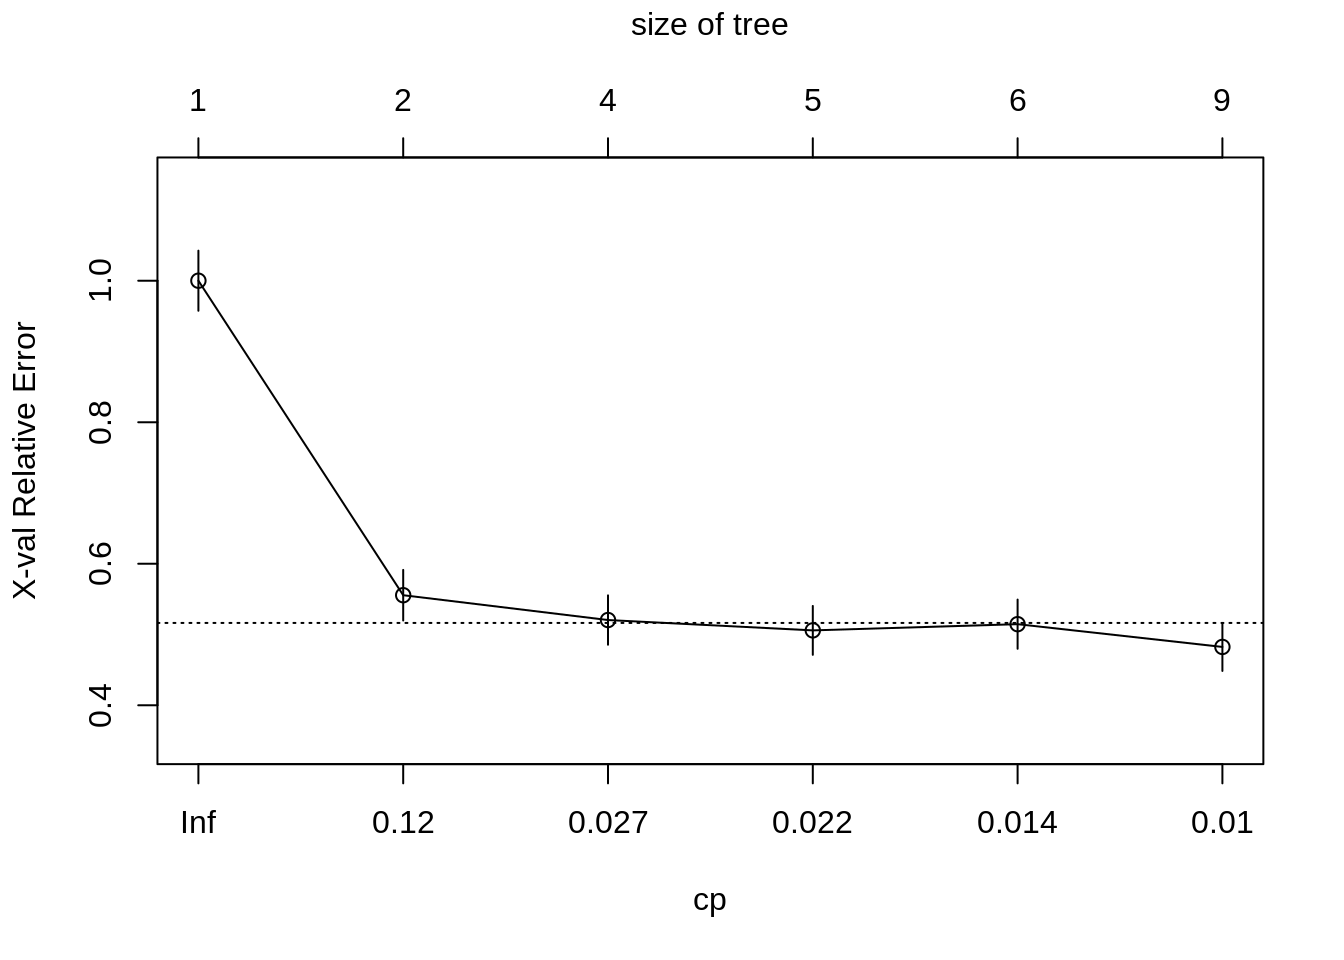
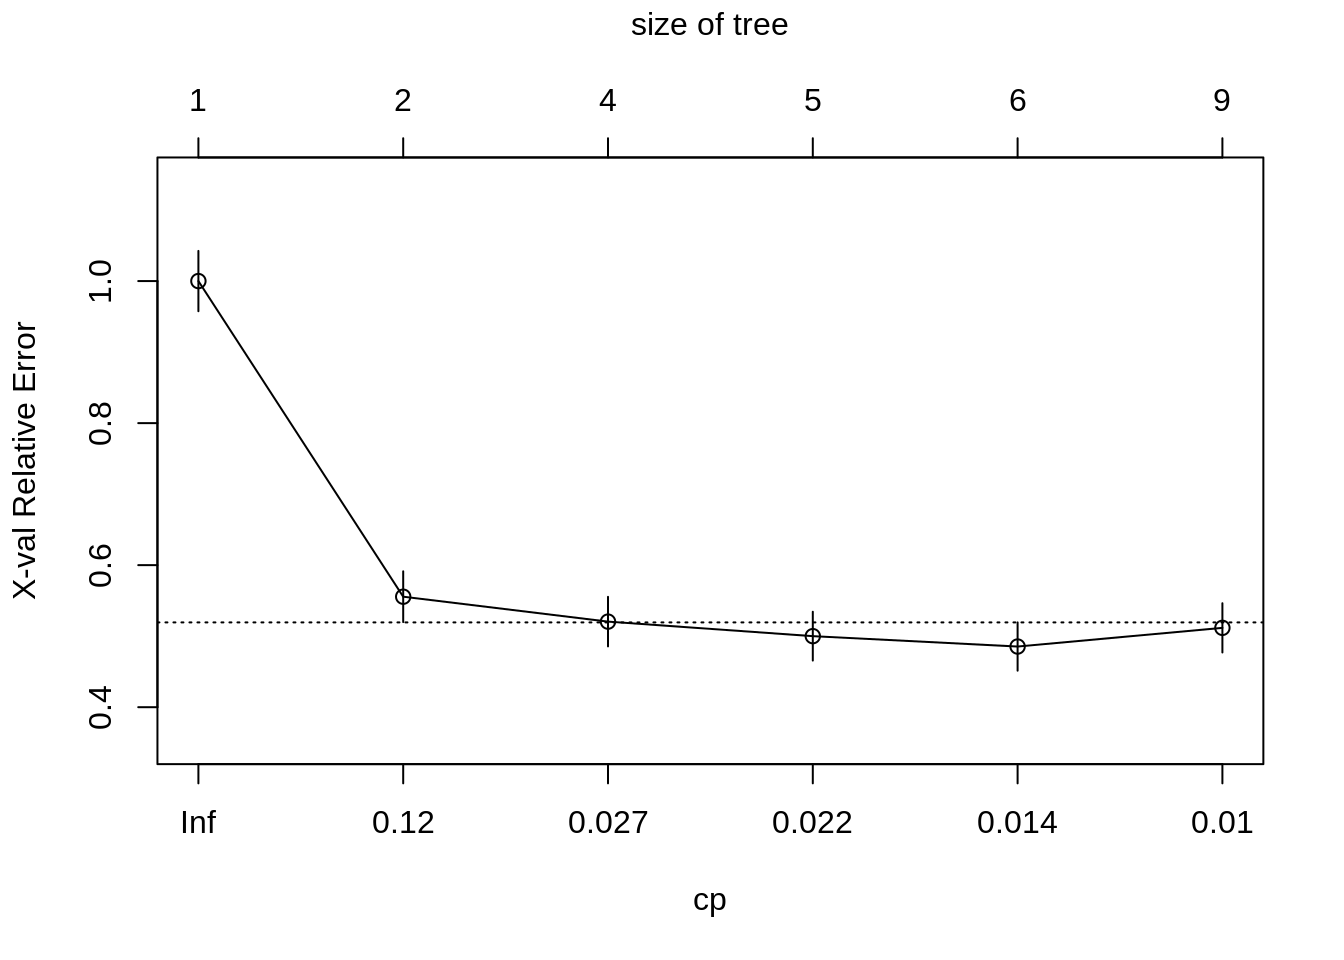
Deploy lebebr01/stat_thinking to github.com/lebebr01/stat_thinking.git:master

diff --git a/docs/classification.html b/docs/classification.html
@@ -325,9 +325,9 @@ titanic &lt;-<span class="st"> </span><span class="kw">bind_rows</span>(titanic_
 ## 1 0.444444      0   1.00000 1.00000 0.042446
 ## 2 0.030702      1   0.55556 0.55556 0.035750
 ## 3 0.023392      3   0.49415 0.52047 0.034897
-## 4 0.020468      4   0.47076 0.50585 0.034524
-## 5 0.010234      5   0.45029 0.51462 0.034749
-## 6 0.010000      8   0.41813 0.48246 0.033904</code></pre>
+## 4 0.020468      4   0.47076 0.50000 0.034372
+## 5 0.010234      5   0.45029 0.48538 0.033983
+## 6 0.010000      8   0.41813 0.51170 0.034675</code></pre>
 <div class="sourceCode"><pre class="sourceCode r"><code class="sourceCode r"><span class="kw">plotcp</span>(class_tree)</code></pre></div>
 <p><img src="05-classification_files/figure-html/unnamed-chunk-6-1.png" width="672" /></p>
 <div class="sourceCode"><pre class="sourceCode r"><code class="sourceCode r">prune_class_tree &lt;-<span class="st"> </span><span class="kw">prune</span>(class_tree, <span class="dt">cp =</span> .<span class="dv">02</span>)

diff --git a/docs/descriptive-statistics-numerically-describing-the-sample-data.html b/docs/descriptive-statistics-numerically-describing-the-sample-data.html
@@ -560,6 +560,7 @@ Y = \begin{pmatrix}10 - 24\\ 10-24\\ 20-24\\ 30-24\\ 50-24\end{pmatrix} = \begin
 <span class="st">  </span><span class="kw">df_stats</span>(<span class="op">~</span><span class="st"> </span>adm_rate, mae)</code></pre></div>
 <pre><code>##   mae_adm_rate
 ## 1    0.1692953</code></pre>
+<!-- This is a test. -->
 <!-- ## Considering Groups -->
 <!-- We've spent a lot of time trying to reason about other variables that may be important in explaining variation in our variable of interest. So far we have only explored the variable without considering other variables, in practice that is not that useful. -->
 <!-- Instead, it is common to compute conditional statistics based on other characteristics in the data. An example may help to show the idea more clearly. -->

diff --git a/docs/05-classification.md b/docs/05-classification.md
@@ -250,9 +250,9 @@ printcp(class_tree)
 ## 1 0.444444      0   1.00000 1.00000 0.042446
 ## 2 0.030702      1   0.55556 0.55556 0.035750
 ## 3 0.023392      3   0.49415 0.52047 0.034897
-## 4 0.020468      4   0.47076 0.50585 0.034524
-## 5 0.010234      5   0.45029 0.51462 0.034749
-## 6 0.010000      8   0.41813 0.48246 0.033904
+## 4 0.020468      4   0.47076 0.50000 0.034372
+## 5 0.010234      5   0.45029 0.48538 0.033983
+## 6 0.010000      8   0.41813 0.51170 0.034675
 ```
 
 ```r

diff --git a/docs/03-descriptive.md b/docs/03-descriptive.md
@@ -709,7 +709,7 @@ colleges %>%
 ```
 
 
-
+<!-- This is a test. -->
 
 <!-- ## Considering Groups -->
 <!-- We've spent a lot of time trying to reason about other variables that may be important in explaining variation in our variable of interest. So far we have only explored the variable without considering other variables, in practice that is not that useful. -->
